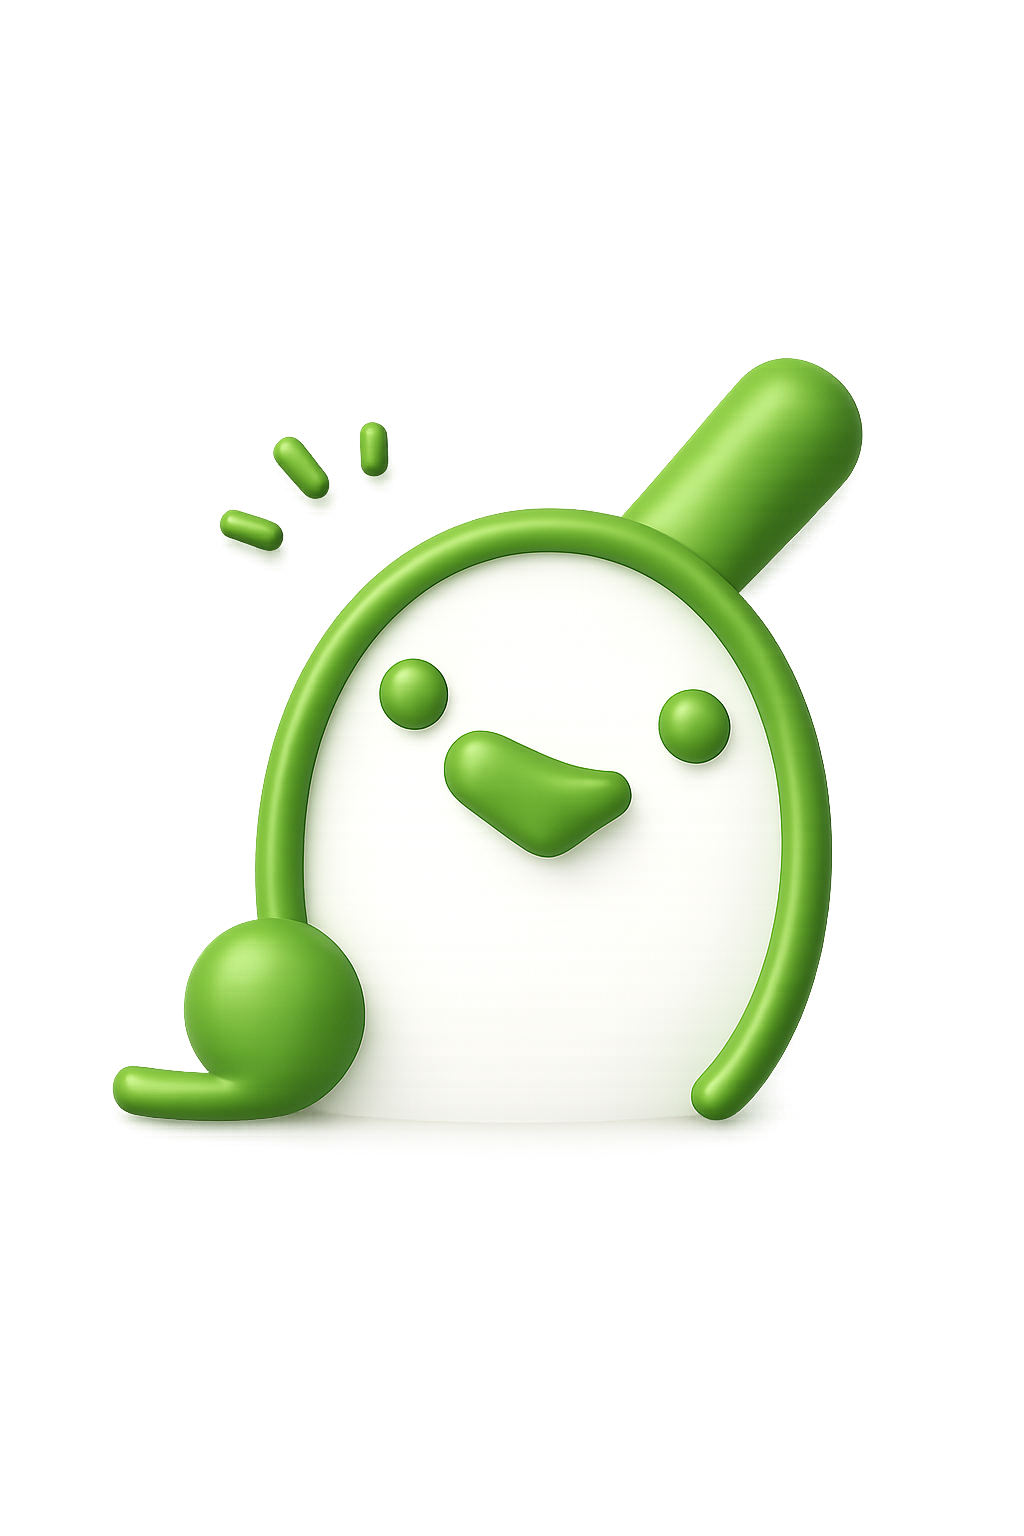
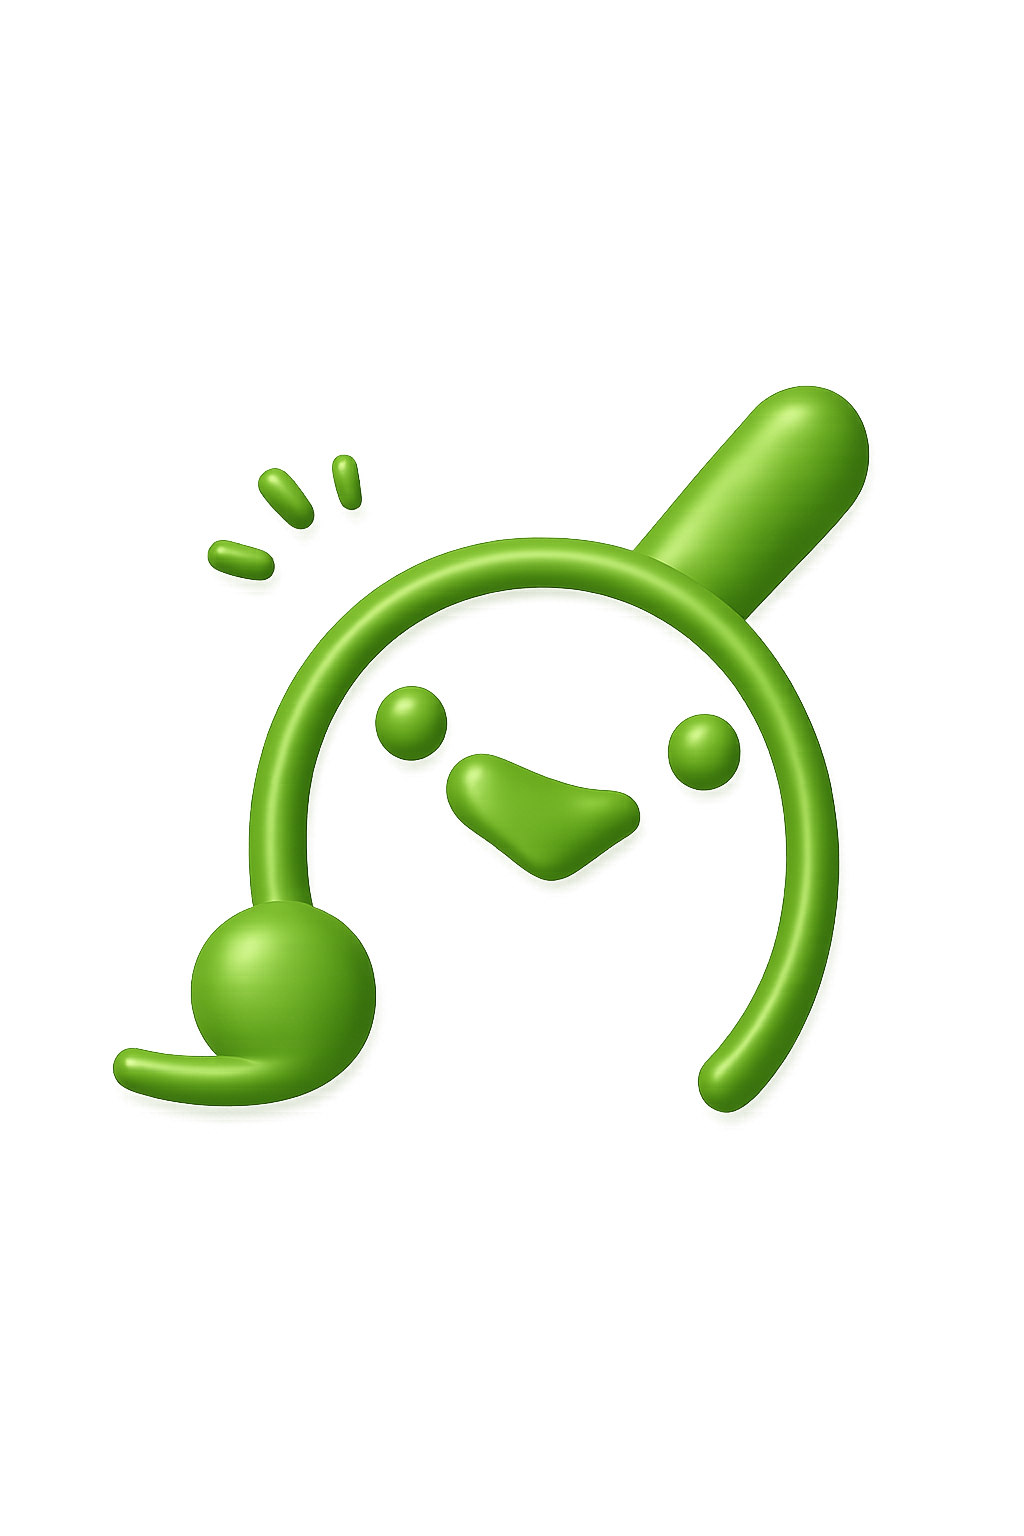
・マスコットの修正 ・ロゴの色の修正

Changed region(s): [[0.0938, 0.2188, 0.875, 0.75], [0.1875, 0.25, 0.4062, 0.375]]

diff --git a/index.html b/index.html
@@ -27,7 +27,7 @@
   <header class="site-header">
     <div class="container header-inner">
       <a class="brand" href="#top" aria-label="b-room ホーム">
-        <img src="images/logo.png" alt="b-room PLAY. CREATE. CONNECT." width="304" height="112">
+        <img src="images/logo.png" alt="b-room PLAY. CREATE. CONNECT." width="304" height="112" style="filter:brightness(.65) saturate(.9)">
       </a>
       <button class="menu-button" type="button" aria-label="メニューを開く" aria-expanded="false" aria-controls="global-nav">
         <span></span><span></span><span></span>
@@ -55,7 +55,7 @@
           <div class="hero-orb orb-one"></div>
           <div class="hero-orb orb-two"></div>
           <div class="hero-dots"></div>
-          <img src="images/hero-mascot.png" alt="" width="500" height="500">
+          <img src="images/hero-mascot.png" alt="" width="333" height="344" style="height:auto;aspect-ratio:auto;filter:brightness(.94) saturate(.9) contrast(.92) drop-shadow(0 24px 28px rgba(72,117,47,.15))">
         </div>
       </div>
     </section>
@@ -105,7 +105,7 @@
 
   <footer class="site-footer" id="support">
     <div class="container footer-inner">
-      <a class="footer-brand" href="#top"><img src="images/logo.png" alt="b-room" width="220" height="82"></a>
+      <a class="footer-brand" href="#top"><img src="images/logo.png" alt="b-room" width="220" height="82" style="filter:brightness(.65) saturate(.9)"></a>
       <nav class="footer-links" aria-label="フッターナビゲーション">
         <a href="#">サポート</a><a href="#" id="privacy">プライバシー</a><a href="#">よくある質問</a><a href="#" id="contact">お問い合わせ</a>
       </nav>